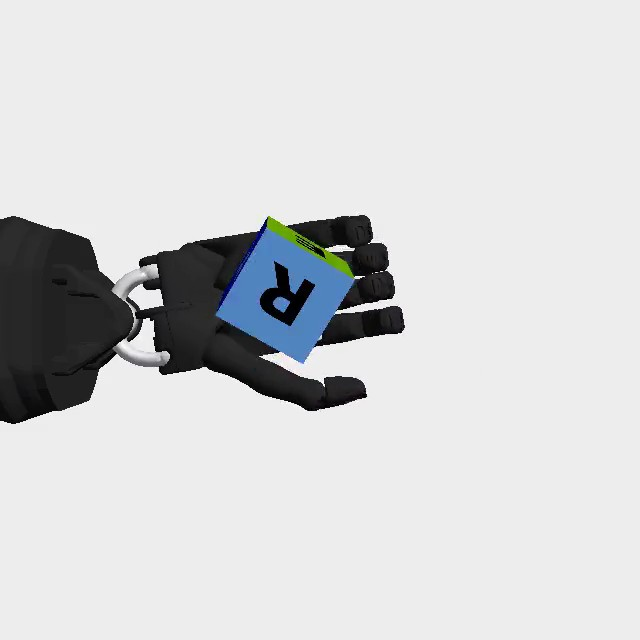
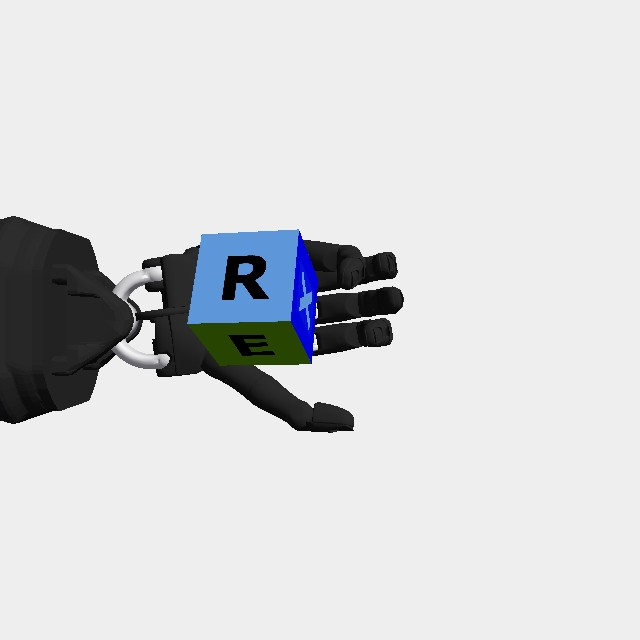
Show the Shadow Hand depth as Cosmos receives it

Changed region(s): [[0.1562, 0.3125, 0.6562, 0.6875]]

diff --git a/source/isaaclab_experimental/docs/cosmos_transfer.md b/source/isaaclab_experimental/docs/cosmos_transfer.md
@@ -5,12 +5,13 @@ It uses the public [Cosmos Framework](https://github.com/NVIDIA/cosmos-framework
 public [nvidia/Cosmos3-Nano-Sim-Transfer](https://huggingface.co/nvidia/Cosmos3-Nano-Sim-Transfer)
 checkpoint.
 
-| Rendered | Depth | Generated by Cosmos |
+| Rendered | Depth sent to Cosmos | Generated by Cosmos |
 | --- | --- | --- |
 | ![Shadow Hand camera image rendered by Isaac Lab](media/cosmos-shadow-hand-rendered.jpg) | ![Shadow Hand camera depth](media/cosmos-shadow-hand-depth.jpg) | ![Image generated by Cosmos from the depth](media/cosmos-shadow-hand-cosmos.jpg) |
 
-The images come from three runs at the same step, so the cube's pose differs slightly between
-them.
+The rendered image and depth come from one run and the Cosmos image from another, at the same
+step, so the cube's pose differs between them. The depth is shown as Cosmos receives it: white at
+0.1 m, black at 1.5 m and beyond.
 
 Use **uv 0.11.29** for the Framework environment. Keep the Cosmos Framework and
 Isaac Lab environments separate. The demo requires **48 GB of VRAM for one
